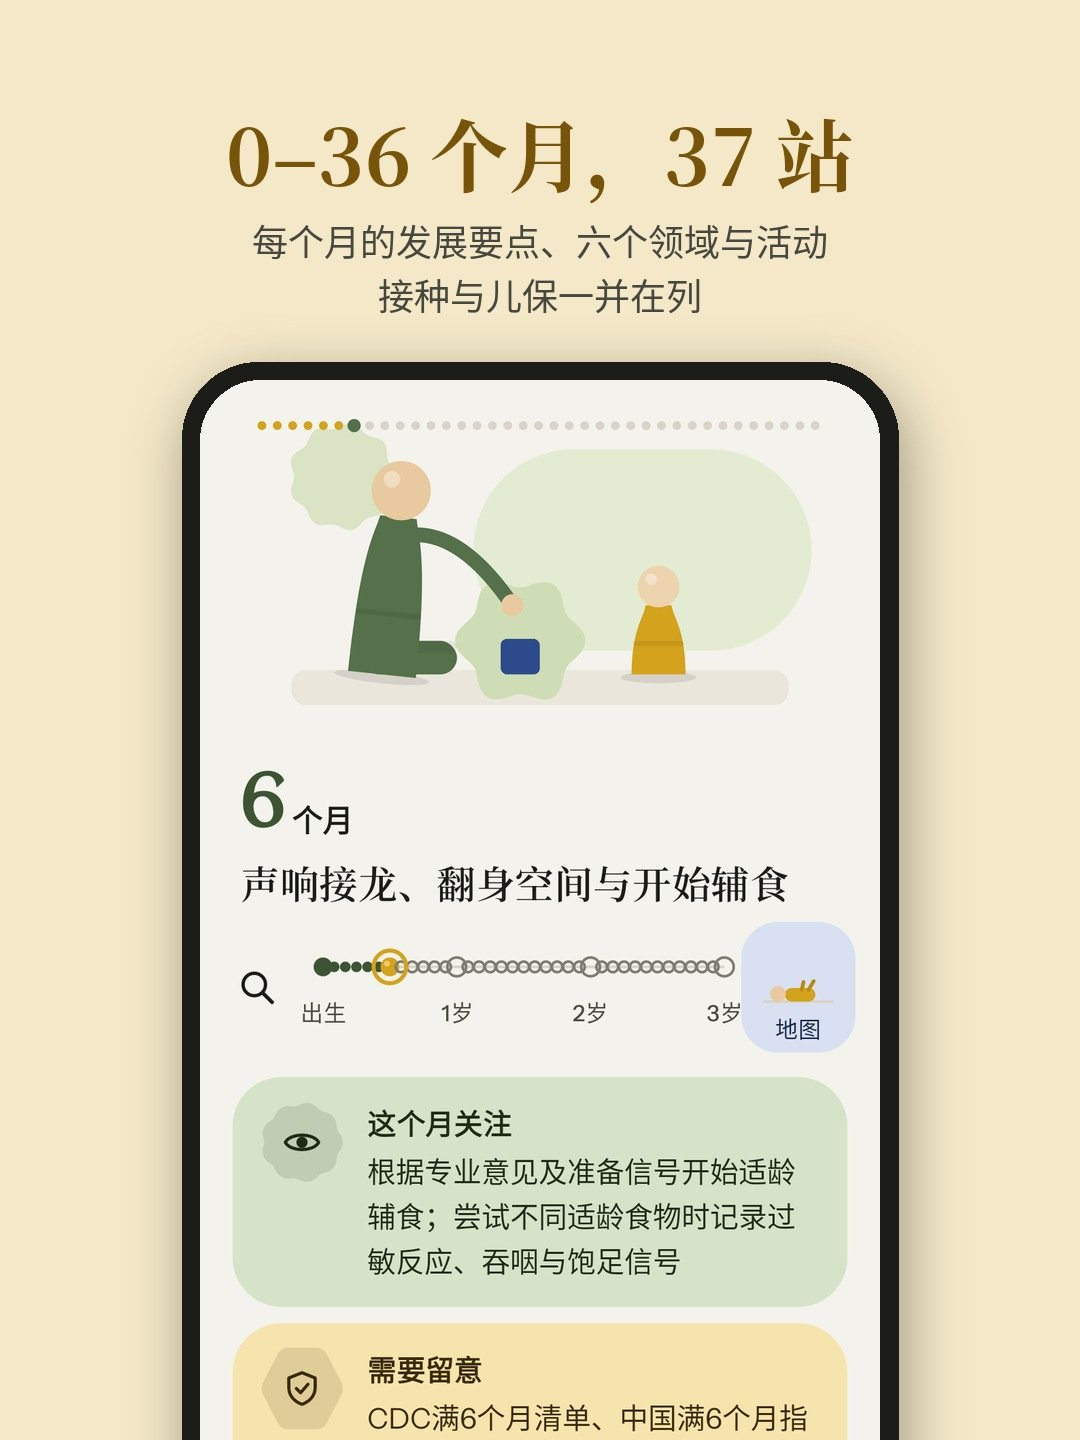
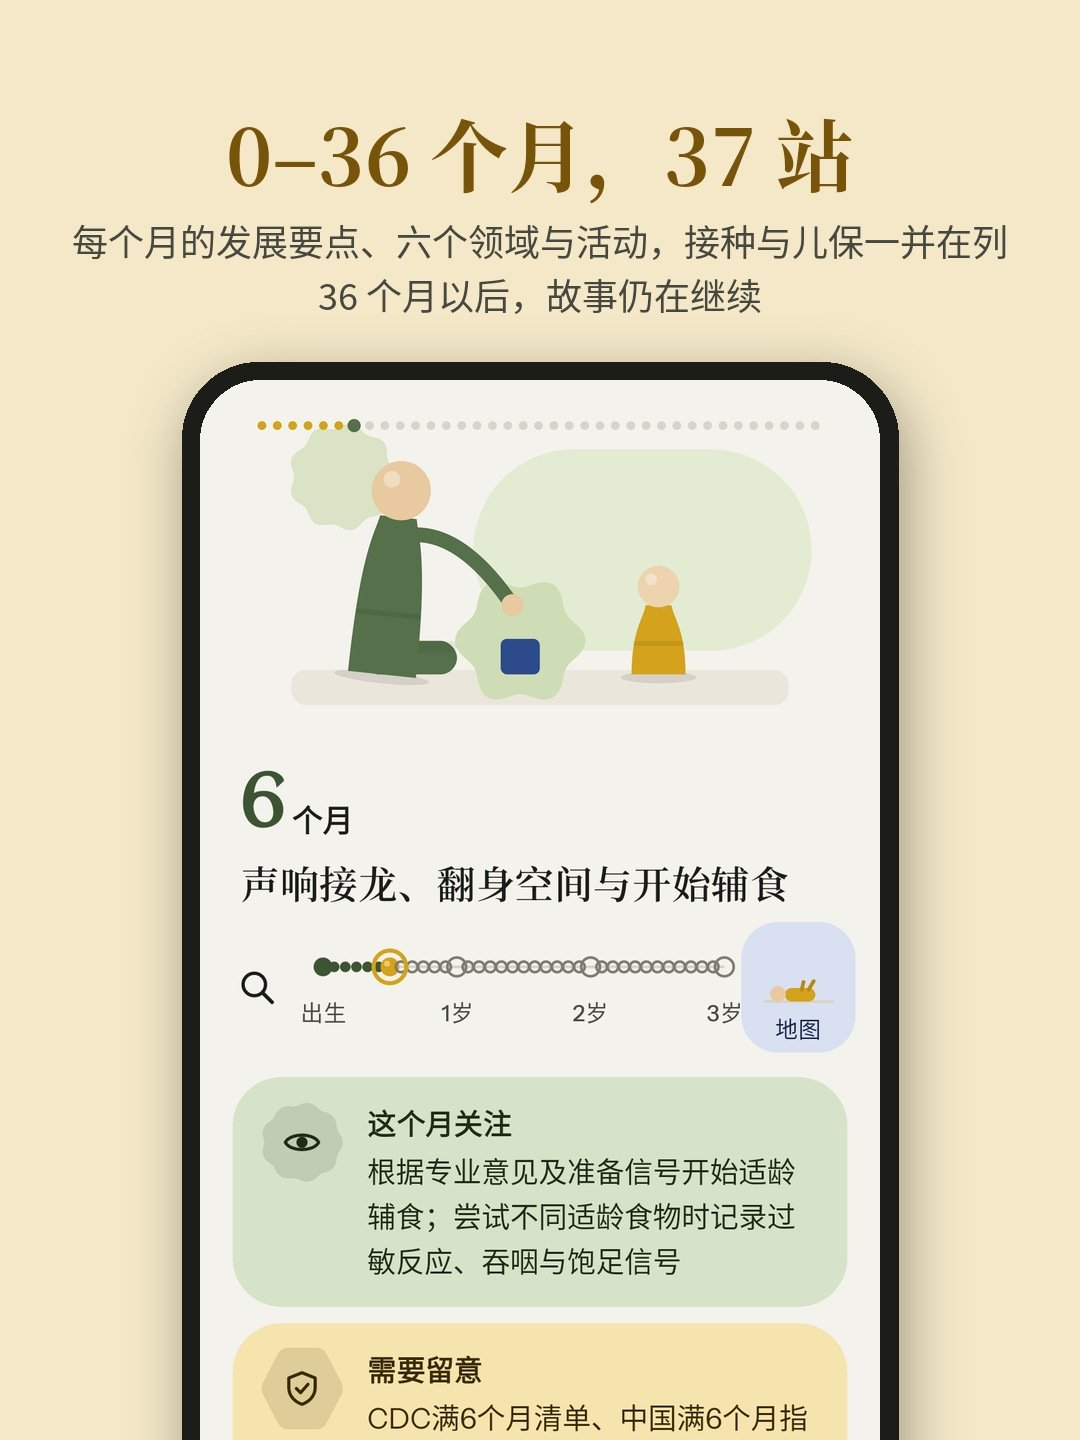
芽芽月历 1.0.1
Claude-Session: https://claude.ai/code/session_01UTvD6AgKvTyZ1ghsbDDvi8

Changed region(s): [[0.0611, 0.1562, 0.9472, 0.2188]]

diff --git a/app/src/main/java/app/mossling/ui/ip/Duo.kt b/app/src/main/java/app/mossling/ui/ip/Duo.kt
@@ -4,6 +4,8 @@ import androidx.compose.animation.core.animateFloatAsState
 import androidx.compose.animation.core.spring
 import androidx.compose.foundation.layout.Box
 import androidx.compose.foundation.layout.height
+import androidx.compose.foundation.layout.fillMaxWidth
+import androidx.compose.foundation.layout.padding
 import androidx.compose.foundation.layout.offset
 import androidx.compose.foundation.layout.size
 import androidx.compose.foundation.layout.width
@@ -64,5 +66,37 @@ fun Duo(
             look = if (beat >= 1) Offset(0.95f, -0.35f) else look,
             lid = if (beat >= 1) null else lid,
             label = if (primary == Kind.Moss) "Moss 和 Otto" else "Otto 和 Moss", poke = poke)
+    }
+}
+
+/**
+ * The end of the map is not the end: the road runs on past the last station, the two companions walk on along it.
+ * Shown after 36 months on the map, at the foot of month 36, and on Today once the child is past three.
+ */
+@Composable
+fun StoryGoesOn(primary: Kind, modifier: Modifier = Modifier) {
+    val road = androidx.compose.material3.MaterialTheme.colorScheme.outlineVariant
+    val bead = app.mossling.ui.theme.Palette.Bead
+    val mint = app.mossling.ui.theme.Palette.Mint
+    androidx.compose.material3.Surface(shape = androidx.compose.foundation.shape.RoundedCornerShape(28.dp),
+        color = mint.copy(alpha = 0.12f), modifier = modifier) {
+        androidx.compose.foundation.layout.Column(Modifier.padding(horizontal = 20.dp, vertical = 18.dp)) {
+            Box(Modifier.fillMaxWidth().height(96.dp)) {
+                // the road, leaving the frame: beads that grow fainter toward the right
+                androidx.compose.foundation.Canvas(Modifier.matchParentSize()) {
+                    val y = size.height - 10.dp.toPx()
+                    val n = 14
+                    for (i in 0 until n) {
+                        val x = size.width * (0.08f + 0.92f * i / (n - 1))
+                        val a = (1f - i / n.toFloat()).coerceIn(0.12f, 1f)
+                        drawCircle(if (i % 4 == 3) bead.copy(alpha = a) else road.copy(alpha = a), (if (i % 4 == 3) 5f else 3.5f).dp.toPx(), androidx.compose.ui.geometry.Offset(x, y))
+                    }
+                }
+                Duo(primary, Modifier.align(Alignment.BottomStart).padding(start = 12.dp, bottom = 14.dp), size = 64.dp, look = Offset(0.9f, -0.1f))
+            }
+            androidx.compose.material3.Text("故事仍在继续", style = androidx.compose.material3.MaterialTheme.typography.titleLarge, modifier = Modifier.padding(top = 8.dp))
+            androidx.compose.material3.Text("36 个月以后，路还很长，每一天都有新的样子。",
+                style = androidx.compose.material3.MaterialTheme.typography.bodyMedium, color = androidx.compose.material3.MaterialTheme.colorScheme.onSurfaceVariant)
+        }
     }
 }

diff --git a/app/src/main/java/app/mossling/ui/today/TodayScreen.kt b/app/src/main/java/app/mossling/ui/today/TodayScreen.kt
@@ -115,6 +115,9 @@ fun TodayScreen(ui: AppUi, a: TodayActions, modifier: Modifier = Modifier, now: 
             val t by androidx.compose.runtime.produceState(now()) { while (true) { kotlinx.coroutines.delay(60_000); value = now() } }
             Hero(ui, companion, a, if (ui.settings.journal) since(ui, t) else null)
         }
+        if (age != null && age.months >= 36) item(key = "onward") {
+            app.mossling.ui.ip.StoryGoesOn(companion, Modifier.fillMaxWidth().padding(horizontal = 16.dp).padding(top = 16.dp))
+        }
         if (age != null && play != null) item(key = "play") {
             Box(Modifier.padding(horizontal = 16.dp)) {
                 AnimatedContent(targetState = if (skipped) null else play, transitionSpec = {

diff --git a/app/src/main/java/app/mossling/ui/grow/MapScreen.kt b/app/src/main/java/app/mossling/ui/grow/MapScreen.kt
@@ -117,6 +117,10 @@ fun MapScreen(ui: AppUi, open: (Int) -> Unit, onBack: () -> Unit) {
                     Station(ui, c.month(m), m, baby, family = c.month(m).feature?.let { c.play(it) }?.let { Family.of(it.domains) }) { open(m) }
                 }
             }
+            // past the last station the road goes on
+            item("onward") {
+                app.mossling.ui.ip.StoryGoesOn(app.mossling.ui.theme.LocalCompanion.current, Modifier.fillMaxWidth().padding(horizontal = 16.dp).padding(top = 12.dp))
+            }
         }
         Butterfly(Modifier.fillMaxSize()) { if (baby != null) scope.launch { list.animateScrollToItem((indexOf(baby) - 1).coerceAtLeast(0)) } }
     }

diff --git a/app/src/main/java/app/mossling/ui/grow/GrowScreen.kt b/app/src/main/java/app/mossling/ui/grow/GrowScreen.kt
@@ -252,6 +252,9 @@ fun GrowScreen(ui: AppUi, month: Int, a: GrowActions, modifier: Modifier = Modif
                 }
             }
         }
+        if (m == 36) item("onward") {
+            app.mossling.ui.ip.StoryGoesOn(companion, Modifier.fillMaxWidth().padding(horizontal = 16.dp).padding(top = 20.dp))
+        }
         if (c.topics.isNotEmpty()) item("topics") {
             SectionTitle("专题", kicker = null)
             Column(Modifier.padding(horizontal = 16.dp), verticalArrangement = Arrangement.spacedBy(8.dp)) {

diff --git a/RELEASE_NOTES.md b/RELEASE_NOTES.md
@@ -1,49 +1,3 @@
-# 芽芽月历 1.0
+# 芽芽月历 1.0.1
 
-**跟着孩子，一个月一站。**
-
-芽芽月历（Mossling）是一款面向 0–3 岁儿童家庭的早教活动规划应用。应用以月龄为线索，将出生至满 36 个月划分为 37 站，每一站说明这个月可以留意的发展表现、适合在家一起做的活动，以及这一周可以放上架子的教具，帮助照护者在日常生活中有方向、有节奏地陪伴孩子成长。
-
-「芽芽」是一片刚冒头的新芽，「月历」是按月展开的 37 站：每个孩子都按自己的节奏，一个月长出一点新的样子。
-
-## 主要功能
-
-### 今天
-- 孩子满几个月几天，本月每一天以一颗串珠呈现。
-- 今天的一个活动：活动编号、名称、适合月龄、第一步插画、安全要点；可换一个，也可今天不做。
-- 本周的架子：每周 3–4 件活动，记录本周做过几次，新一周提示轮换。
-- 下一次接种与儿童保健项目，仅在打开时显示，不推送提醒。
-
-### 成长
-- 0–36 个月串珠固定在页面顶部，点按或拖动即可翻到任意月龄。
-- 每月封面插画、本月要点、活动、六个发展领域、可以留意的表现、接种与儿保、本月还要知道的事项、一天的节奏。
-- 成长地图：37 站连成一条路，标明每一站的接种、儿保与记录情况；伙伴站在孩子所在的一站。
-- 专题与全文搜索：睡眠、活动与屏幕；安全睡眠与防跌落；辅食与回应式喂养；口腔、屏幕与多种语言；什么时候要找医生。
-
-### 活动
-- 46 个家庭活动，覆盖语言沟通、大运动、精细动作与认知、社会情绪、生活自理与文化、健康安全六个领域。
-- 每个活动包含开始之前（准备与安全）、分步插画（共 146 幅）、做的时候看什么、什么时候停下。
-- 「做过」只是记录，不是评估。
-
-### 手帐（可选，默认关闭）
-- 亲喂、瓶喂、睡眠、尿布、辅食、洗澡、体温、用药与备注。
-- 计时在通知栏持续显示，可暂停、换边、结束；开始与结束时间可精确到分钟。
-- 按天查看全天时间条与记录，统计喂养、睡眠与尿布；每一条均可修改或删除，删除后可撤销。
-- 生长：体重、身长 / 身高、头围的最新值、百分位与上次变化；曲线采用世界卫生组织儿童生长标准（2006），标出第 3–97 与第 15–85 百分位带、中位数与今天，点按测量点可查看当次数值。
-- 桌面小组件：月龄、今天的活动、计时与常用记录。
-
-### 伙伴
-Moss 与 Otto 陪伴使用：Moss 是一块长着薄荷芽的绿色圆石，两只眼睛，安静地看；Otto 高高的，一只大眼睛，带着一颗金色串珠。两者一同出现，所选伙伴在前。它们会呼吸、眨眼、互相张望；孩子睡觉时，它们也睡着。
-
-## 内容依据
-内容整理自世界卫生组织、联合国儿童基金会、中国国家卫生健康委员会、中国国家疾病预防控制局、中华预防医学会、美国疾病控制与预防中心、美国儿科学会等机构公开发布的指南与资料，共列出 41 项参考文献，在「内容来源」中逐项标明机构、文件名称、发布日期与核对日期。
-
-## 隐私与安全
-- 无需账号；不收集、不上传任何个人信息；无广告、无统计分析、无第三方 SDK。
-- 全部记录仅保存在设备本地，可导出、导入或一键清除；可开启应用锁。
-- 仅在用户主动「检查更新」时联网，新版本可在应用内下载并安装。
-
-## 说明
-本应用提供家庭养育参考信息，不构成医疗诊断或治疗建议。详见应用内《使用条款》《隐私政策》与《免责声明》。
-
-适用于 Android 8.0 及以上版本。
+细节优化与体验改进。

diff --git a/README.md b/README.md
@@ -18,7 +18,7 @@
 
 芽芽月历（Mossling）是一款面向 0–3 岁儿童家庭的早教活动规划应用。应用以月龄为线索，将出生至满 36 个月划分为 37 站，每一站说明这个月可以留意的发展表现、适合在家一起做的活动，以及这一周可以放上架子的教具，帮助照护者在日常生活中有方向、有节奏地陪伴孩子成长。
 
-「芽芽」是一片刚冒头的新芽，「月历」是按月展开的 37 站：每个孩子都按自己的节奏，一个月长出一点新的样子。
+「芽芽」是一片刚冒头的新芽，「月历」是按月展开的 37 站：每个孩子都按自己的节奏，一个月长出一点新的样子。满 36 个月是地图上的最后一站，却不是终点——故事仍在继续。
 
 ## 主要功能
 
@@ -31,7 +31,7 @@
 ### 成长
 - 0–36 个月串珠固定在页面顶部，点按或拖动即可翻到任意月龄。
 - 每月封面插画、本月要点、活动、六个发展领域、可以留意的表现、接种与儿保、本月还要知道的事项、一天的节奏。
-- 成长地图：37 站连成一条路，标明每一站的接种、儿保与记录情况；伙伴站在孩子所在的一站。
+- 成长地图：37 站连成一条路，标明每一站的接种、儿保与记录情况；伙伴站在孩子所在的一站；最后一站之后，路仍向前延伸。
 - 专题与全文搜索：睡眠、活动与屏幕；安全睡眠与防跌落；辅食与回应式喂养；口腔、屏幕与多种语言；什么时候要找医生。
 
 ### 活动

diff --git a/store/listing.md b/store/listing.md
@@ -7,7 +7,7 @@
 跟着孩子的月龄，看这个月可以一起做什么，每周把合适的教具放上架子。
 
 ## 完整说明
-跟着孩子，一个月一站。芽芽月历按月龄安排 0–36 个月的早教活动：这个月留意什么、适合一起做什么、这一周把哪几件教具放上架子。打开时只看今天：孩子满几个月几天，今天的一件玩法。
+跟着孩子，一个月一站。芽芽月历按月龄安排 0–36 个月的早教活动：这个月留意什么、适合一起做什么、这一周把哪几件教具放上架子。打开时只看今天：孩子满几个月几天，今天的一件玩法。满 36 个月是地图上的最后一站，却不是终点，故事仍在继续。
 
 **今天**
 - 月龄写在砂纸数字板上，本月每一天是一颗串珠。

diff --git a/CHANGELOG.md b/CHANGELOG.md
@@ -1,5 +1,8 @@
 # 更新日志
 
+## 1.0.1 · 2026-10-22
+细节优化与体验改进。
+
 ## 1.0.0 · 2026-10-22
 首个正式版本。
 
